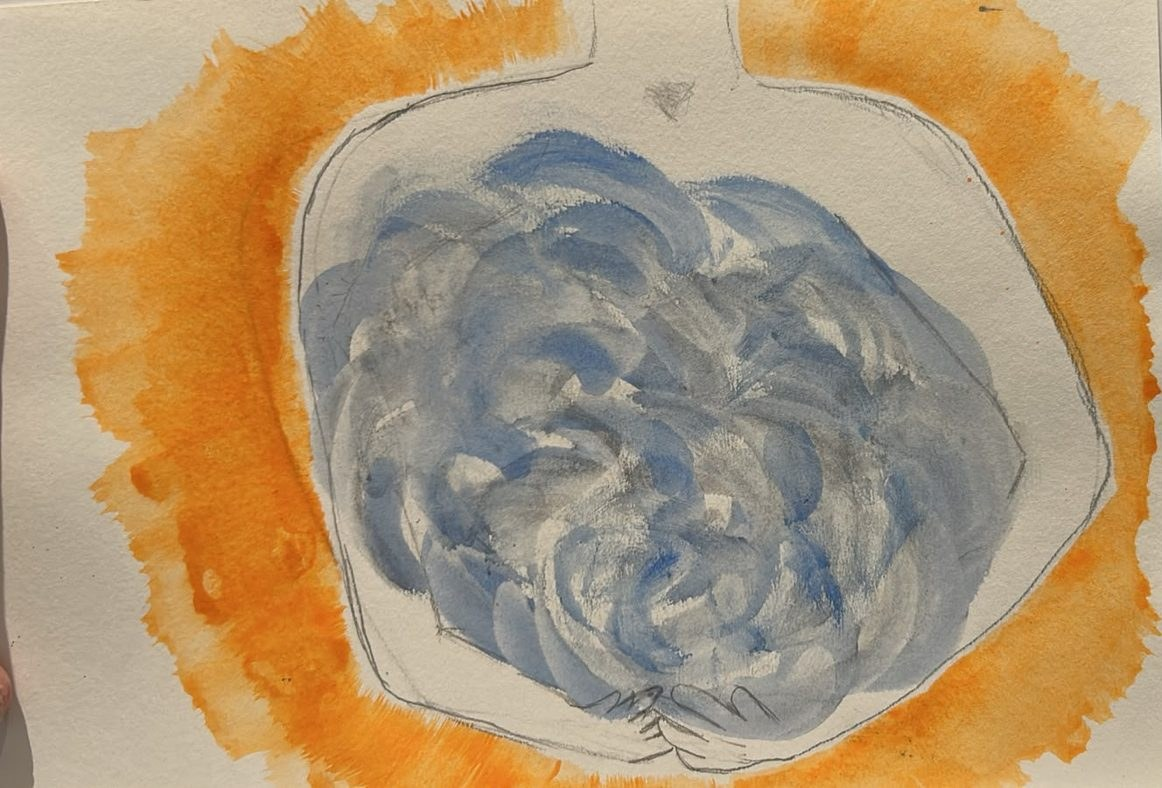
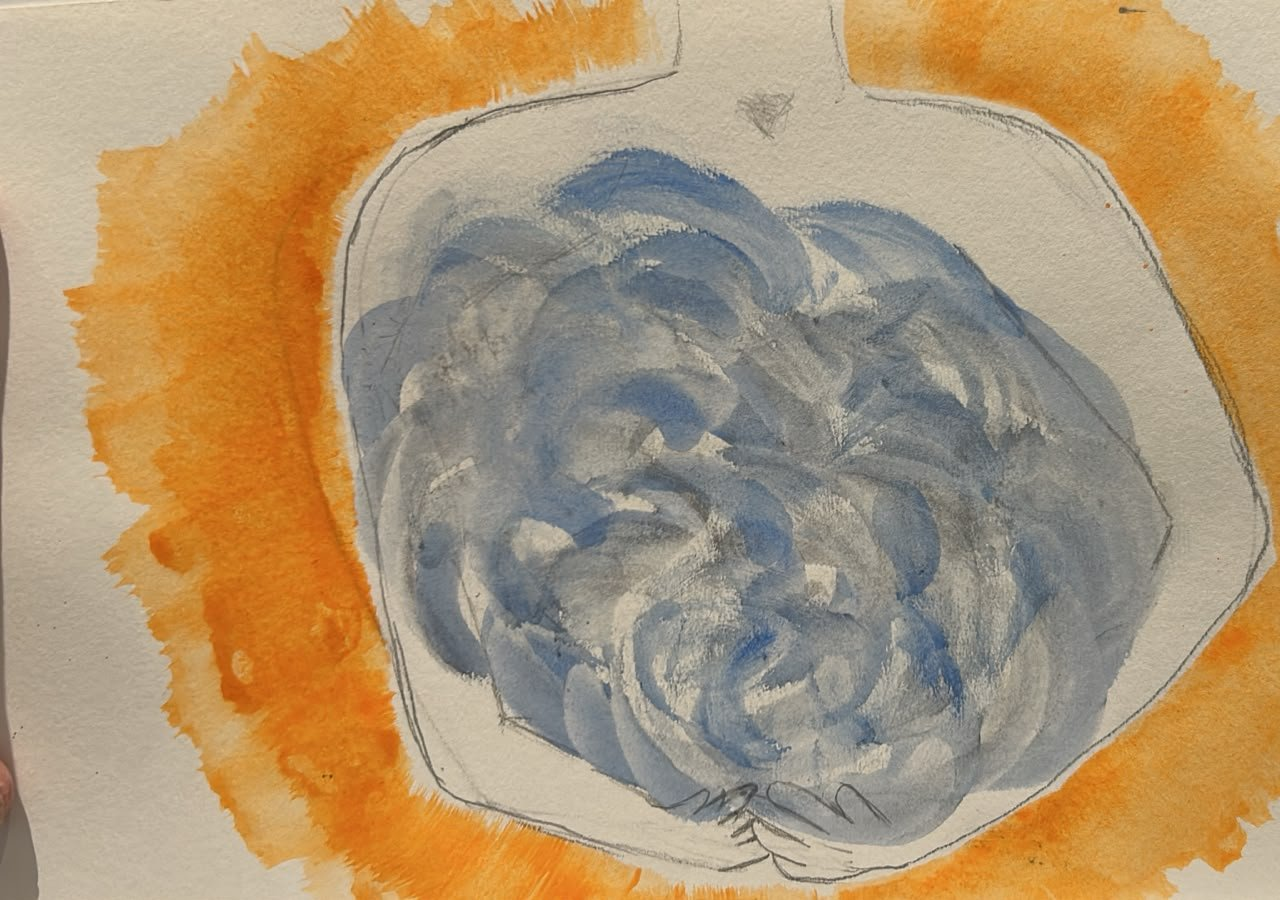
Carol: revierte transform-scale roto (bleed visual) y corrige bordes de pared restantes en el collage
El fix anterior de c15 (CSS transform:scale via animacion czoom, sin
overflow:hidden en .crow) causaba que el contenido escalado sangrara
visualmente hacia la fila de arriba: exactamente el "foto mas pequena y
estatica en la esquina" reportado. Revertido a solo recorte de archivo
(re-derivado del original, sin trucos de CSS).

Bordes de pared/mueble encontrados y corregidos en dos imagenes mas del
cierre: c10.jpg (pared arriba, repisa abajo) y c12.jpg (pared arriba,
molde/repisa abajo). Barrido completo de las 17 imagenes del collage
confirmado limpio con cache-bust real en Puppeteer.

diff --git a/congreso-personalista/Carol/index.html b/congreso-personalista/Carol/index.html
@@ -99,8 +99,6 @@
     .collage .ov.teal{ background:linear-gradient(72deg, rgba(15,40,50,0.97) 0%, rgba(15,40,50,0.88) 35%, rgba(15,40,50,0.68) 60%, rgba(15,40,50,0.38) 80%, rgba(15,40,50,0.12) 95%); }
     .reveal .slides section.present .collage img{ animation:collageKen 26s ease-out both; }
     @keyframes collageKen{ from{ transform:scale(1.07);} to{ transform:scale(1.0);} }
-    .reveal .slides section.present .collage img.czoom{ animation:collageKenZoom 26s ease-out both; }
-    @keyframes collageKenZoom{ from{ transform:scale(1.32);} to{ transform:scale(1.2);} }
 
     /* Fondo de video (dos clips verticales) */
     .vidbg{ position:absolute; inset:0; display:flex; gap:2px; z-index:1; overflow:hidden; background:#0A1C24; }
@@ -356,7 +354,7 @@
         </div>
         <div class="crow" style="flex:1;">
           <img class="p" src="imagenes/collage/c3.jpg" alt="" loading="lazy">
-          <img class="l czoom" src="imagenes/collage/c15.jpg" alt="" loading="lazy" style="transform-origin:left center;">
+          <img class="l" src="imagenes/collage/c15.jpg" alt="" loading="lazy">
           <img class="p" src="imagenes/collage/c2.jpg" alt="" loading="lazy">
         </div>
         <div class="ov teal"></div>
